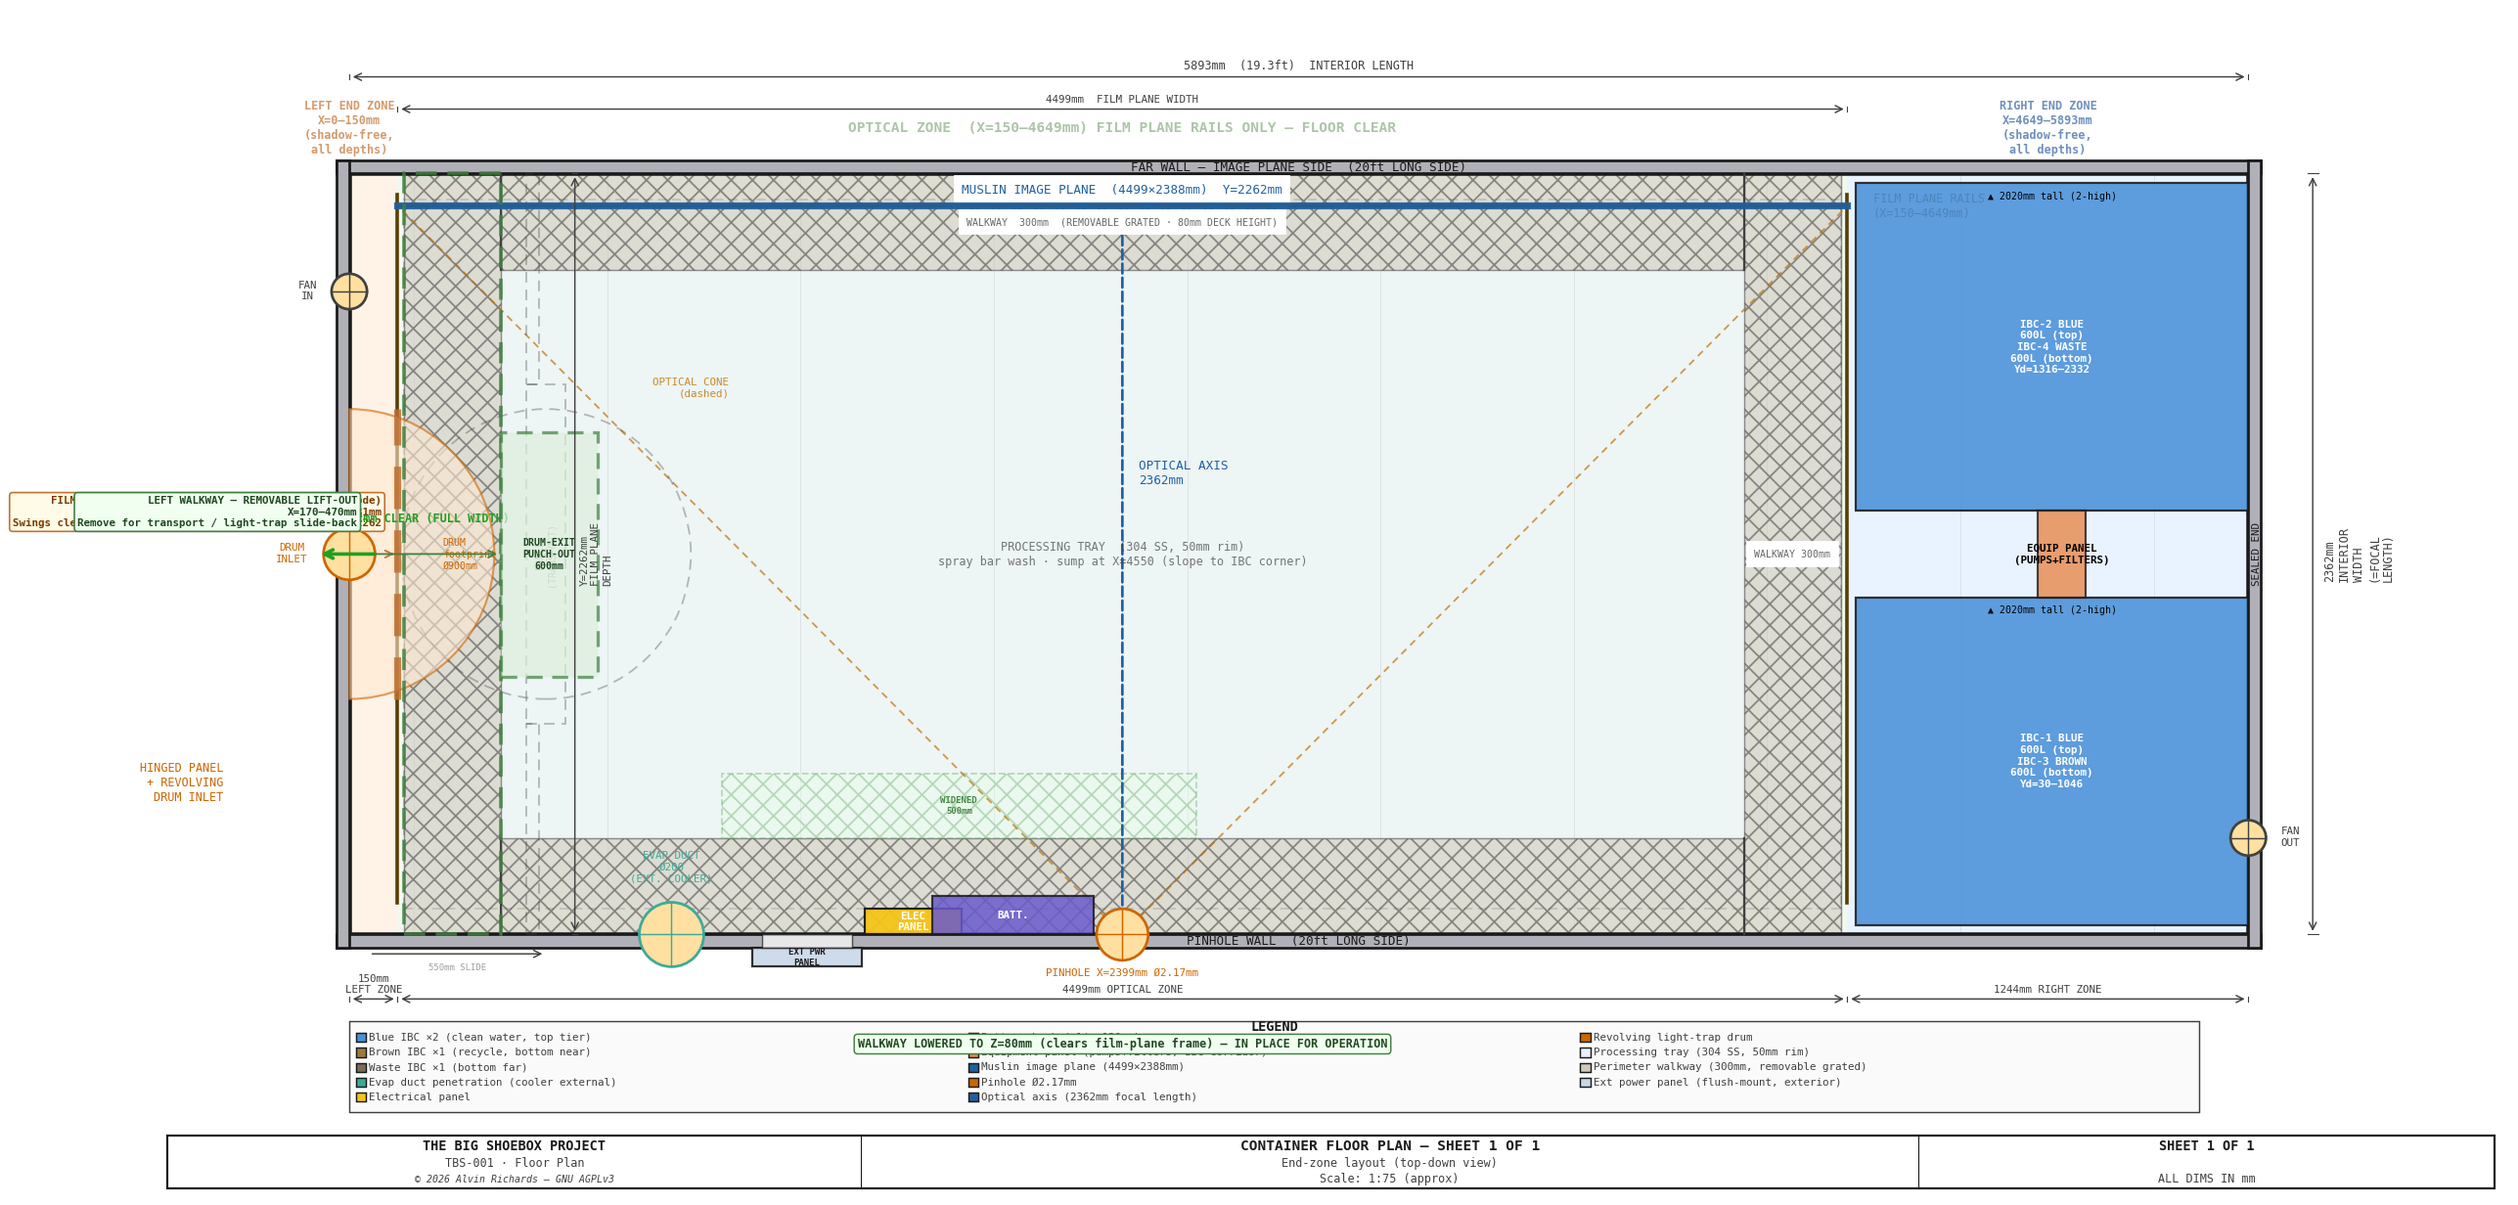
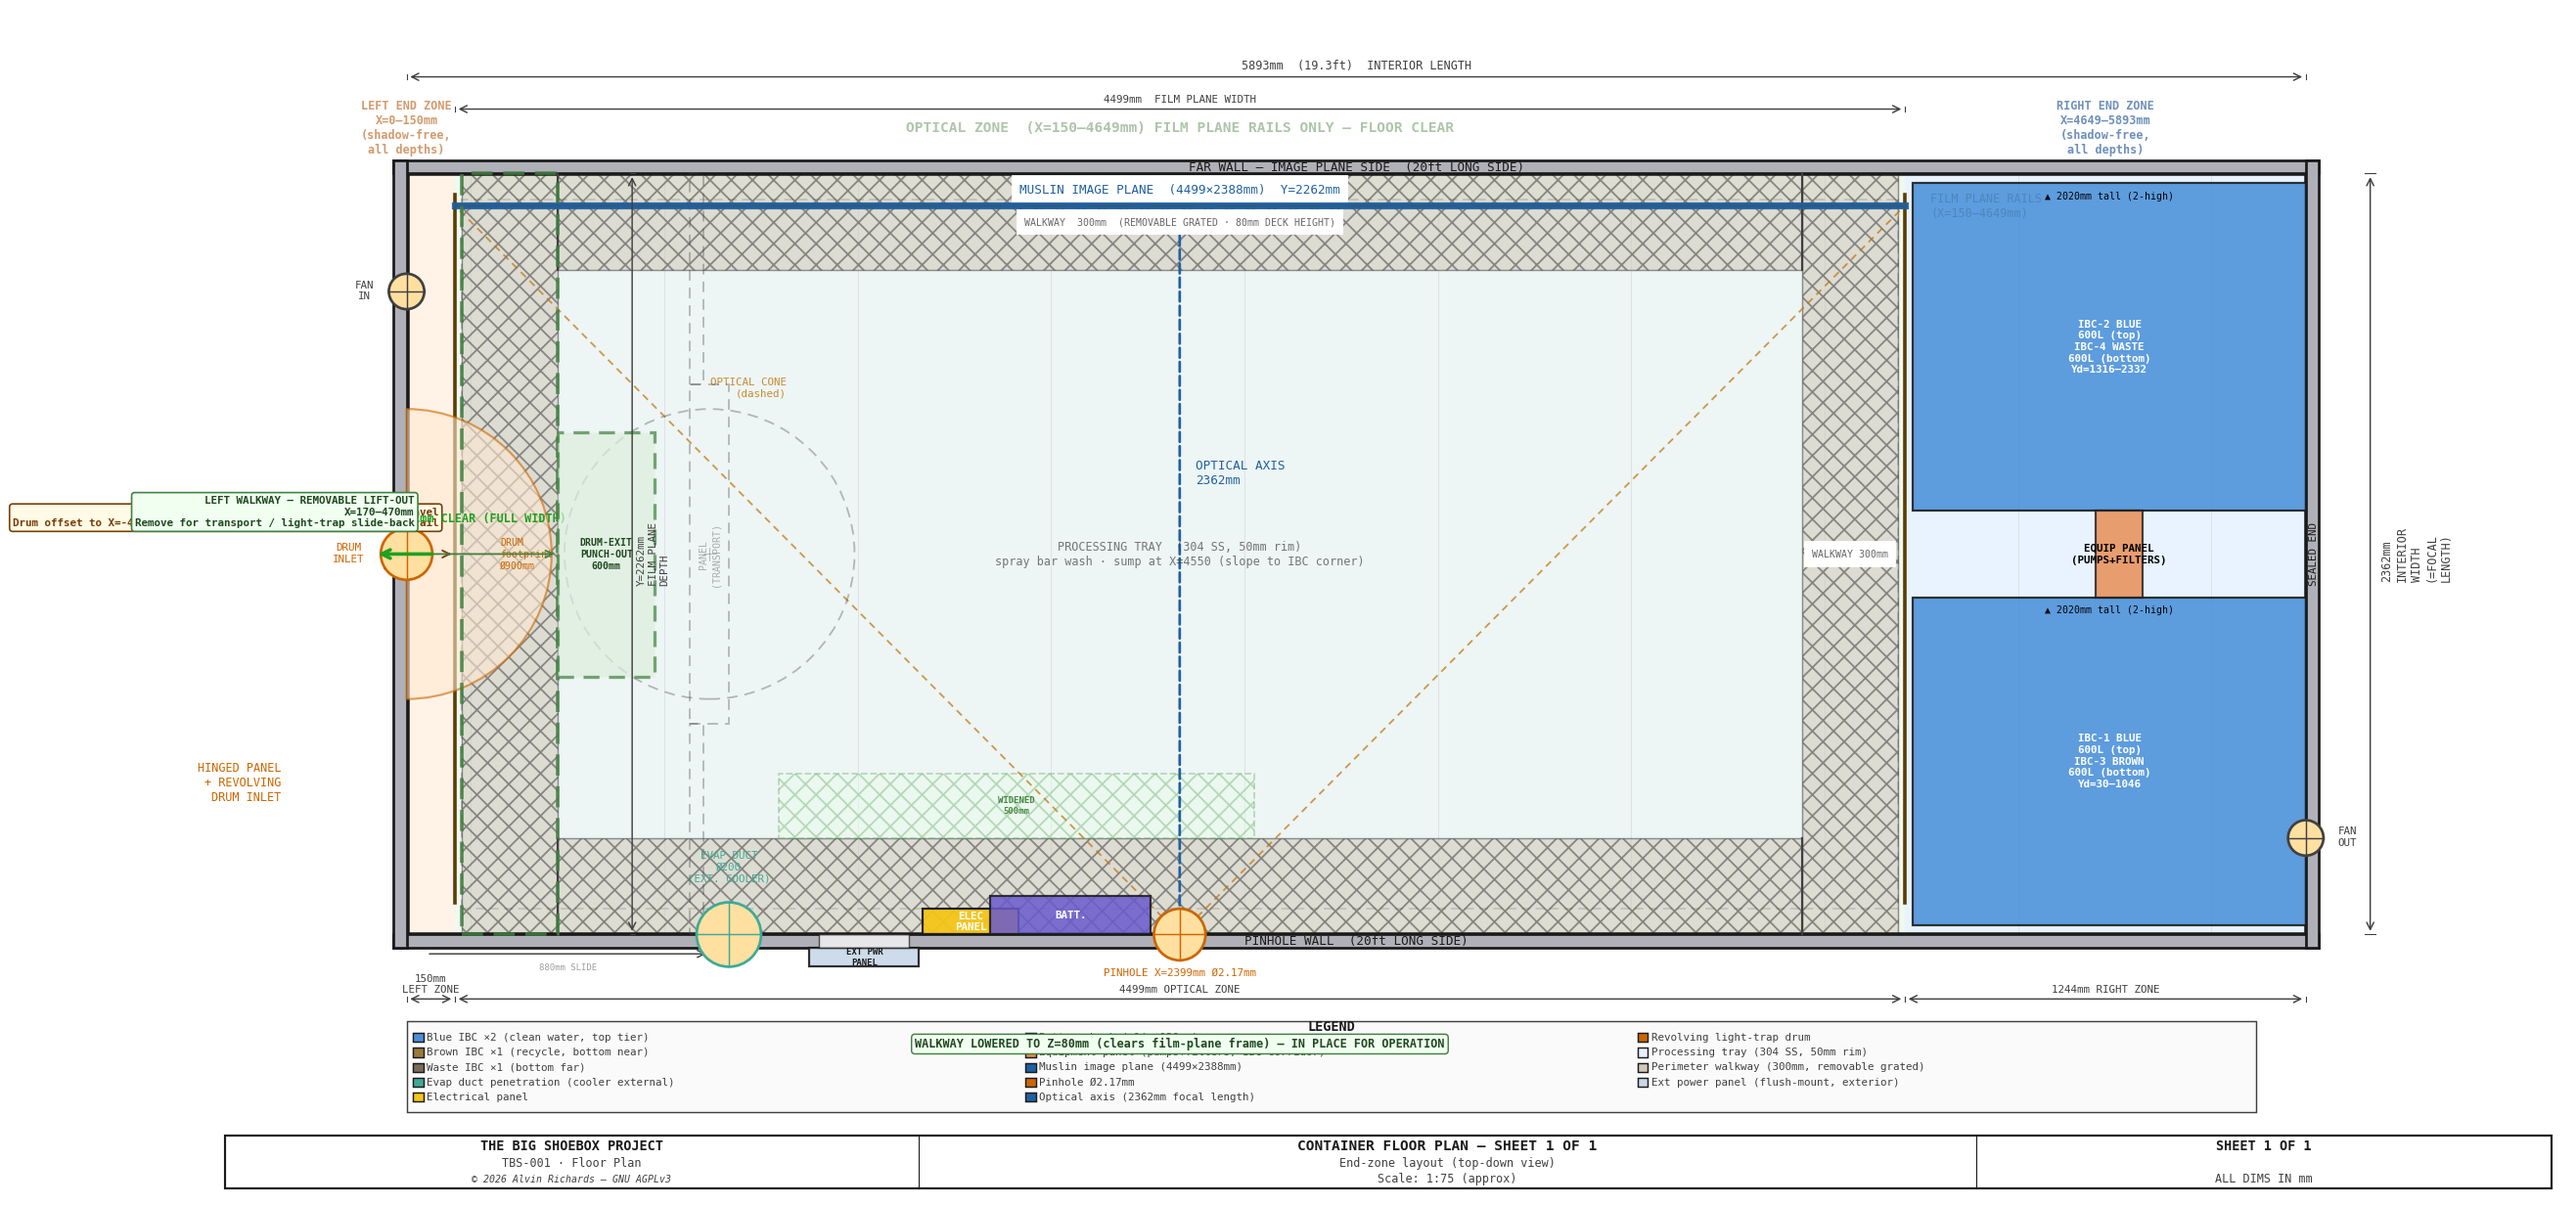
B2 Task 5: floorplan — left rail continuous, drum offset out via bay
Remove the demountable-segment overlay + note; left rail continuous; drum
auto-offsets to X=-400 (DRUM_CX). No BRACE_LEFT_DEMOUNT/CARRIAGE_PARK_Y refs left.

diff --git a/src/generators/generate_floorplan_diagram.py b/src/generators/generate_floorplan_diagram.py
@@ -457,28 +457,21 @@ def floor_plan():
 
     # ── Film left-rail demountable segment (drum-mode clearance) ─────────────
     # The LEFT RAIL (X=RAIL_X_L=150mm) passes through the drum volume.
-    # The segment spanning Yd=731–1631 is DEMOUNTABLE so the drum can rotate
-    # ("drum mode"); carriage parks at Yd=2262 during drum mode.
-    # Show this segment as a dashed orange overlay on the rail line.
-    ax.plot([RAIL_X_L, RAIL_X_L],
-            [BRACE_LEFT_DEMOUNT_Y0, BRACE_LEFT_DEMOUNT_Y1],
-            color="#C07030", lw=4.0, ls=(0, (6, 3)), zorder=7, alpha=0.85,
-            solid_capstyle="round")
-    # Leader + note to the left (in the left end zone / exterior pad area)
+    # B2 (rev9): the left rail is CONTINUOUS — the drum is offset out (center
+    # X=DRUM_CX, via the hinge-panel punch-out bay), so no demountable segment.
     NOTE_NX = -PAD_L + 120
-    NOTE_NY = (BRACE_LEFT_DEMOUNT_Y0 + BRACE_LEFT_DEMOUNT_Y1) / 2  # 1181
+    NOTE_NY = DRUM_CY   # 1181 — light-lock Yd centre
     ax.annotate("",
                 xy=(RAIL_X_L, NOTE_NY),
                 xytext=(NOTE_NX + 600, NOTE_NY),
-                arrowprops=dict(arrowstyle="->", color="#C07030", lw=1.0),
+                arrowprops=dict(arrowstyle="->", color="#7A3A00", lw=1.0),
                 zorder=10)
     ax.text(NOTE_NX + 580, NOTE_NY + 80,
-            f"FILM LEFT-RAIL SEGMENT DEMOUNTS FOR DRUM (drum mode)\n"
-            f"X={RAIL_X_L}mm  Yd={BRACE_LEFT_DEMOUNT_Y0}–{BRACE_LEFT_DEMOUNT_Y1}mm\n"
-            f"Swings clear for drum rotation · carriage parks at Yd={CARRIAGE_PARK_Y}",
+            f"FILM LEFT RAIL CONTINUOUS — full travel\n"
+            f"Drum offset to X={DRUM_CX}mm via the panel bay — clears the X={RAIL_X_L}mm rail",
             ha="right", va="bottom", fontsize=6.0, color="#7A3A00",
             fontweight="bold", **FONT, zorder=10,
-            bbox=dict(boxstyle="round,pad=0.3", fc="#FFFBE6", ec="#C07030", lw=0.9))
+            bbox=dict(boxstyle="round,pad=0.3", fc="#FFFBE6", ec="#7A3A00", lw=0.9))
 
     # ── Walkway height note (deck lowered — stays in place for operation) ───────
     # The walkway deck is LOWERED to Z=WALKWAY_H (65mm) so the film-plane frame
